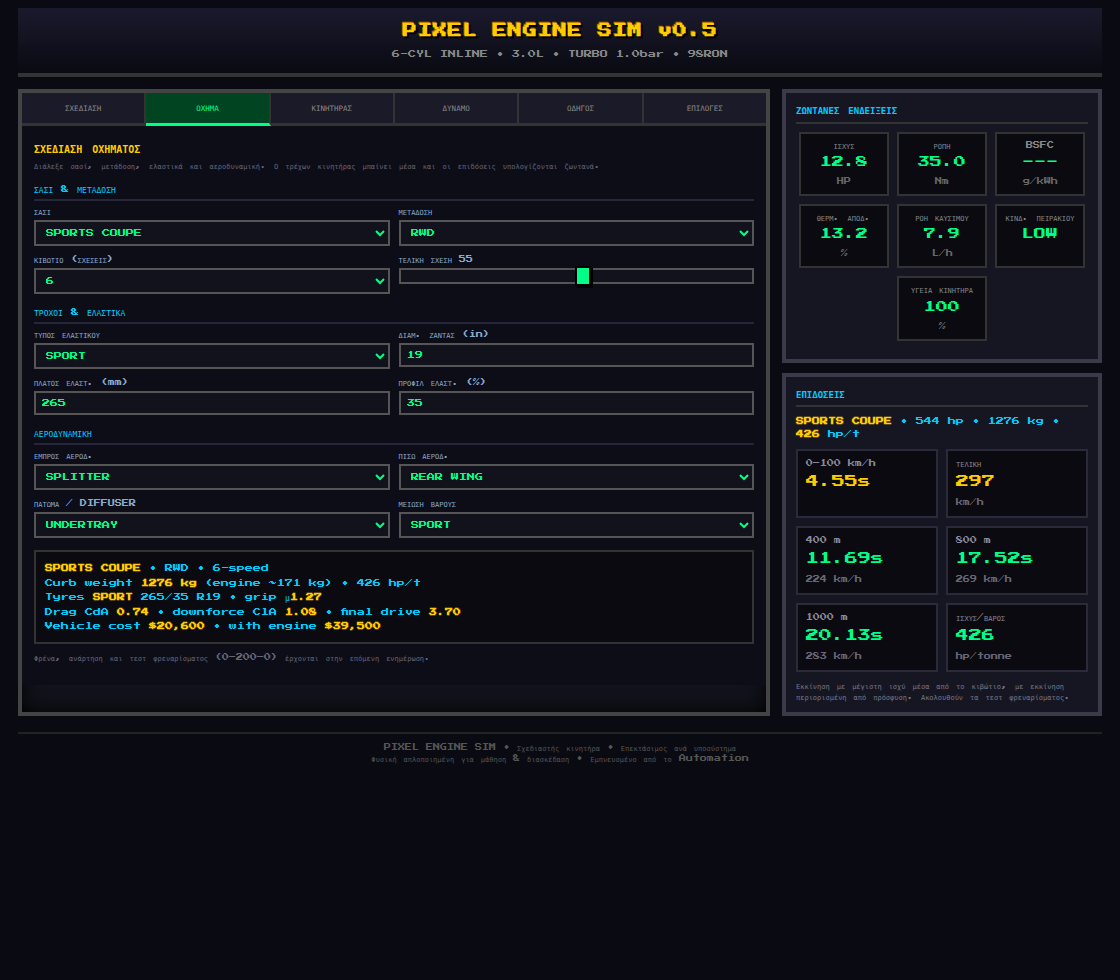
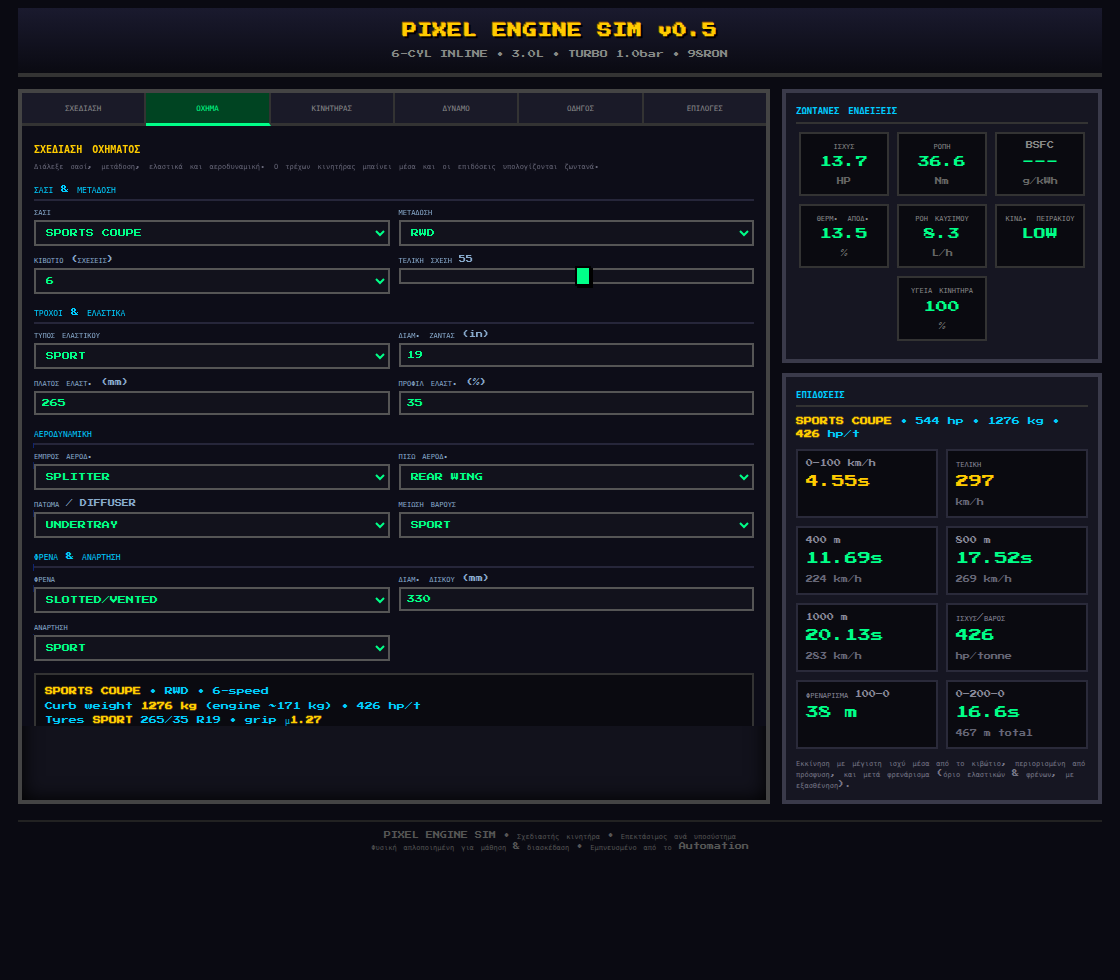
Add vehicle layer (A, part 2): brakes, suspension & braking tests (100-0, 0-200-0) (#24)
- Brakes: type (steel / slotted-vented / big-brake-kit / carbon-ceramic) +
  rotor size, setting the peak commanded deceleration (g) and a heat-energy
  budget before fade. Bigger/better brakes stop shorter and resist fade.
- Suspension: comfort / sport / coilovers / race — a mechanical-grip
  multiplier folded into tyre mu (helps both acceleration and braking).
- Braking sim: deceleration = min(tyre grip [mu.(weight+downforce)], brake
  capacity [fading with absorbed heat]) plus aero drag. Reports 100-0
  stopping distance and the 0-200-0 test (accelerate to 200 km/h then brake
  to a stop -> total time + distance; shows "not reached" for cars that
  can't hit 200). simulateAccel now also records time/distance to 200 km/h.
- Performance panel gains 100-0 BRAKING and 0-200-0 cells; the vehicle
  summary shows brakes (capacity in g) and suspension; costs include both.
- Serialized with the build; GUIDE updated; new UI localised (EN/EL).

Tests (Playwright, zero console errors): brake type shortens 100-0
(steel 51 m -> carbon 24 m), tyre grip & suspension both scale stops, the
0-200-0 assembles correctly, and slow cars report "not reached". Prior
acceleration/state-independence regressions unchanged. README + screenshots
updated.

Claude-Session: https://claude.ai/code/session_01AEJgmuJne9ALT6jCcxozCn

diff --git a/index.html b/index.html
@@ -351,11 +351,13 @@ ignition type set charging and the misfire RPM limit.
 On the <b>VEHICLE</b> tab you drop your engine into a car. Pick a <b>chassis</b> (each has its
 own weight, size and drivetrain), a <b>drivetrain</b> (FWD/RWD/AWD — AWD launches hardest),
 a <b>gearbox</b> (speeds + a short↔tall gearing slider), <b>tyres</b> (compound + width/profile/
-diameter set grip and rolling radius) and <b>aero</b> (front/rear/floor add downforce and drag).
-The engine's mass and torque curve are added in and the <b>Performance</b> panel computes
-<b>0–100 km/h</b>, <b>400/800/1000 m</b> (time + trap speed) and <b>top speed</b> live — a
-traction-limited launch with weight transfer, downforce, drag and rolling resistance. Over-gearing
-hurts both acceleration and top speed; sticky tyres and AWD help you put the power down.
+diameter set grip and rolling radius), <b>aero</b> (front/rear/floor add downforce and drag),
+<b>brakes</b> (type + rotor size set stopping power and fade resistance) and <b>suspension</b>
+(a mechanical-grip multiplier). The engine's mass and torque curve are added in and the
+<b>Performance</b> panel computes <b>0–100 km/h</b>, <b>400/800/1000 m</b> (time + trap speed),
+<b>top speed</b>, <b>100–0 braking</b> and the <b>0–200–0</b> test live — a traction-limited launch
+and a tyre/brake-limited stop with fade, weight transfer, downforce, drag and rolling resistance.
+Over-gearing hurts both acceleration and top speed; sticky tyres, big brakes and AWD help most.
 </div>
 <div class="guide-body" data-gk="tip" style="color:#667;margin-top:12px">Tip: turn WEAR off in OPTIONS to
 experiment freely, then back on for consequences.</div>
@@ -412,8 +414,14 @@ experiment freely, then back on for consequences.</div>
 <div class="field"><label for="vhAeroFl">FLOOR / DIFFUSER</label><select id="vhAeroFl"><option value="none">NONE</option><option value="undertray">UNDERTRAY</option><option value="diffuser">DIFFUSER</option></select></div>
 <div class="field"><label for="vhWeight">WEIGHT REDUCTION</label><select id="vhWeight"><option value="none">NONE</option><option value="street">STREET</option><option value="sport">SPORT</option><option value="race">RACE</option></select></div>
 </div>
+
+<div class="design-section">Brakes &amp; Suspension</div>
+<div class="design-grid">
+<div class="field"><label for="vhBrake">BRAKES</label><select id="vhBrake"><option value="steel">STEEL DISC</option><option value="slotted">SLOTTED/VENTED</option><option value="big">BIG BRAKE KIT</option><option value="carbon">CARBON-CERAMIC</option></select></div>
+<div class="field"><label for="vhRotor">ROTOR SIZE (mm)</label><input type="number" id="vhRotor" min="250" max="420" step="10" value="330"></div>
+<div class="field"><label for="vhSusp">SUSPENSION</label><select id="vhSusp"><option value="comfort">COMFORT</option><option value="sport">SPORT</option><option value="coilover">COILOVERS</option><option value="race">RACE/ADJUST</option></select></div>
+</div>
 <div class="design-summary" id="vehicleSummary"></div>
-<div class="hint" style="margin-top:8px">Brakes, suspension detail and braking tests (0–200–0) arrive in the next update.</div>
 </div>
 </div>
 <div class="side-panel">
@@ -650,9 +658,9 @@ const I18N={
   'Chassis & Drivetrain':{el:'Σασί & Μετάδοση'},'CHASSIS':{el:'ΣΑΣΙ'},'DRIVETRAIN':{el:'ΜΕΤΑΔΟΣΗ'},'GEARBOX (SPEEDS)':{el:'ΚΙΒΩΤΙΟ (ΣΧΕΣΕΙΣ)'},'GEARING':{el:'ΤΕΛΙΚΗ ΣΧΕΣΗ'},
   'Wheels & Tyres':{el:'Τροχοί & Ελαστικά'},'TYRE COMPOUND':{el:'ΤΥΠΟΣ ΕΛΑΣΤΙΚΟΥ'},'WHEEL DIA (in)':{el:'ΔΙΑΜ. ΖΑΝΤΑΣ (in)'},'TYRE WIDTH (mm)':{el:'ΠΛΑΤΟΣ ΕΛΑΣΤ. (mm)'},'TYRE ASPECT (%)':{el:'ΠΡΟΦΙΛ ΕΛΑΣΤ. (%)'},
   'Aerodynamics':{el:'Αεροδυναμική'},'FRONT AERO':{el:'ΕΜΠΡΟΣ ΑΕΡΟΔ.'},'REAR AERO':{el:'ΠΙΣΩ ΑΕΡΟΔ.'},'FLOOR / DIFFUSER':{el:'ΠΑΤΩΜΑ / DIFFUSER'},'WEIGHT REDUCTION':{el:'ΜΕΙΩΣΗ ΒΑΡΟΥΣ'},
-  'Brakes, suspension detail and braking tests (0–200–0) arrive in the next update.':{el:'Φρένα, ανάρτηση και τεστ φρεναρίσματος (0–200–0) έρχονται στην επόμενη ενημέρωση.'},
-  'Performance':{el:'Επιδόσεις'},'0–100 km/h':{el:'0–100 km/h'},'TOP SPEED':{el:'ΤΕΛΙΚΗ'},'POWER/WT':{el:'ΙΣΧΥΣ/ΒΑΡΟΣ'},
-  'Best-power run through the gearbox with a traction-limited launch. Braking tests come next.':{el:'Εκκίνηση με μέγιστη ισχύ μέσα από το κιβώτιο, με εκκίνηση περιορισμένη από πρόσφυση. Ακολουθούν τα τεστ φρεναρίσματος.'},
+  'Brakes & Suspension':{el:'Φρένα & Ανάρτηση'},'BRAKES':{el:'ΦΡΕΝΑ'},'ROTOR SIZE (mm)':{el:'ΔΙΑΜ. ΔΙΣΚΟΥ (mm)'},'SUSPENSION':{el:'ΑΝΑΡΤΗΣΗ'},
+  'Performance':{el:'Επιδόσεις'},'0–100 km/h':{el:'0–100 km/h'},'TOP SPEED':{el:'ΤΕΛΙΚΗ'},'POWER/WT':{el:'ΙΣΧΥΣ/ΒΑΡΟΣ'},'100–0 BRAKING':{el:'ΦΡΕΝΑΡΙΣΜΑ 100–0'},'0–200–0':{el:'0–200–0'},
+  'Best-power run through the gearbox with a traction-limited launch, then braking (tyre- and brake-limited, with fade).':{el:'Εκκίνηση με μέγιστη ισχύ μέσα από το κιβώτιο, περιορισμένη από πρόσφυση, και μετά φρενάρισμα (όριο ελαστικών & φρένων, με εξασθένηση).'},
   // guide h3 + section headers
   'GUIDE • HOW IT WORKS':{el:'ΟΔΗΓΟΣ • ΠΩΣ ΛΕΙΤΟΥΡΓΕΙ'},
   'A quick manual for the sim and its numbers. Design → BUILD & DYNO → drive it.':{el:'Σύντομο εγχειρίδιο για τον προσομοιωτή και τους αριθμούς του. Σχεδίασε → BUILD & DYNO → οδήγησε.'},
@@ -674,7 +682,7 @@ const GUIDE_I18N={
   career:{el:'Διάλεξε έναν <b>ΣΤΟΧΟ</b> στην κορυφή της ΣΧΕΔΙΑΣΗΣ για να κάνεις τη σχεδίαση γρίφο. Κάθε πρόκληση θέτει κριτήρια — ισχύ, οικονομία, εκπομπές, <b>αξιοπιστία</b> ή <b>ισχύ ανά δολάριο</b> — και κάποιες βάζουν όριο <b>προϋπολογισμού</b>. Η κάρτα τσεκάρει κάθε κριτήριο ζωντανά (✓/✗) και δείχνει <b>ΕΠΙΤΥΧΙΑ</b> όταν καλυφθούν όλα· κόστος και αξιοπιστία φαίνονται πάντα. Ο μεγάλος κυβισμός κερδίζει σε αξία· boost και αγωνιστικά μέρη κερδίζουν σε ισχύ αλλά κοστίζουν σε χρήμα και αξιοπιστία.'},
   types:{el:'<b>Βενζίνη 4-χρονη</b> — η ισορροπημένη επιλογή: ανάφλεξη με σπινθήρα, μία εκρηκτική διαδρομή ανά δύο στροφές.<br><b>Πετρέλαιο (CI)</b> — ανάφλεξη με συμπίεση (χωρίς μπουζί, χωρίς πειράκι), πολύ υψηλή συμπίεση, φτωχό χωρίς πεταλούδα. Μεγάλη <b>ροπή</b> στις χαμηλές, χαμηλό όριο στροφών, η καλύτερη <b>απόδοση</b> — αλλά βαρύ, με εκπομπές <b>NOx + αιθάλη (PM)</b> που καθαρίζει σύστημα DPF/SCR.<br><b>2-χρονη</b> — εκρηκτική διαδρομή σε <i>κάθε</i> στροφή (θυρίδες, χωρίς εκκεντροφόρο): υψηλή ειδική ισχύς αλλά λαίμαργη και <b>HC</b>-βρόμικη.<br><b>Wankel (ρότορας)</b> — περιστρεφόμενος ρότορας που ανάβει σε κάθε στροφή: ομαλός σαν τουρμπίνα, τεράστιες στροφές, υψηλή ισχύς ανά λίτρο, αλλά λαίμαργος, <b>HC</b>-βαρύς και σκληρός στα ελάσματα κορυφής.<br>Η αλλαγή τύπου προσαρμόζει τα εύρη συμπίεσης/στροφών/AFR και απενεργοποιεί ό,τι δεν ισχύει.'},
   subsystems:{el:'<b>Κάτω μέρος</b> — τύπος κινητήρα, διάμετρος × διαδρομή × κύλινδροι = κυβισμός· υπερτετράγωνος & υψηλότερο όριο ανεβάζουν την περιοχή ισχύος.<br><b>Διαδρομή αέρα</b> — τούρμπο (γεμίζει με τις στροφές) ή υπερσυμπιεστής (boost από ρελαντί)· το intercooler ψύχει το χάρμανι· εξάτμιση & καταλύτης ανταλλάσσουν ροή με αντίθλιψη/εκπομπές· το νιτρό είναι εμφιαλωμένη ισχύς.<br><b>Εισαγωγή</b> — καρμπιρατέρ → EFI → ITB ορίζουν αναπνοή, ακρίβεια & ρελαντί.<br><b>Χρονισμός βαλβίδων</b> — άγριες εκκεντροφόροι ανεβάζουν την ισχύ ψηλά· το VVT επαναφέρει τις χαμηλές.<br><b>Καύσιμο & σπινθήρας</b> — τύπος καυσίμου, οκτάνια, μπεκ, ανάφλεξη και χρονισμός FIXED/AUTO.<br><b>Ψύξη & ηλεκτρικά</b> — ψυγείο/βεντιλατέρ/ψυγείο λαδιού/θερμοστάτης ορίζουν θερμοκρασίες· δυναμό & ανάφλεξη ορίζουν φόρτιση και όριο μισφάιρ.'},
-  vehicle:{el:'Στην καρτέλα <b>ΟΧΗΜΑ</b> βάζεις τον κινητήρα σου σε αυτοκίνητο. Διάλεξε <b>σασί</b> (κάθε ένα με δικό του βάρος, μέγεθος και μετάδοση), <b>μετάδοση</b> (FWD/RWD/AWD — το AWD ξεκινά καλύτερα), <b>κιβώτιο</b> (σχέσεις + ρυθμιστικό κοντή↔μακριά τελική), <b>ελαστικά</b> (τύπος + πλάτος/προφίλ/διάμετρος ορίζουν πρόσφυση και ακτίνα κύλισης) και <b>αεροδυναμική</b> (εμπρός/πίσω/πάτωμα προσθέτουν κάθετη δύναμη και οπισθέλκουσα). Ο κινητήρας προστίθεται και το ταμπλό <b>Επιδόσεις</b> υπολογίζει <b>0–100 km/h</b>, <b>400/800/1000 m</b> (χρόνος + ταχύτητα) και <b>τελική</b> ζωντανά — εκκίνηση περιορισμένη από πρόσφυση με μεταφορά βάρους, κάθετη δύναμη, οπισθέλκουσα και αντίσταση κύλισης. Η υπερβολικά μακριά τελική βλάπτει και την επιτάχυνση και την τελική· κολλώδη ελαστικά και AWD βοηθούν να περάσει η ισχύς στον δρόμο.'},
+  vehicle:{el:'Στην καρτέλα <b>ΟΧΗΜΑ</b> βάζεις τον κινητήρα σου σε αυτοκίνητο. Διάλεξε <b>σασί</b> (κάθε ένα με δικό του βάρος, μέγεθος και μετάδοση), <b>μετάδοση</b> (FWD/RWD/AWD — το AWD ξεκινά καλύτερα), <b>κιβώτιο</b> (σχέσεις + ρυθμιστικό κοντή↔μακριά τελική), <b>ελαστικά</b> (τύπος + πλάτος/προφίλ/διάμετρος), <b>αεροδυναμική</b> (εμπρός/πίσω/πάτωμα = κάθετη δύναμη & οπισθέλκουσα), <b>φρένα</b> (τύπος + διάμετρος δίσκου ορίζουν φρενάρισμα και αντοχή στην εξασθένηση) και <b>ανάρτηση</b> (πολλαπλασιαστής μηχανικής πρόσφυσης). Ο κινητήρας προστίθεται και το ταμπλό <b>Επιδόσεις</b> υπολογίζει <b>0–100 km/h</b>, <b>400/800/1000 m</b>, <b>τελική</b>, <b>φρενάρισμα 100–0</b> και το τεστ <b>0–200–0</b> ζωντανά — εκκίνηση περιορισμένη από πρόσφυση και φρενάρισμα με όριο ελαστικών/φρένων και εξασθένηση. Η υπερβολικά μακριά τελική βλάπτει επιτάχυνση και τελική· κολλώδη ελαστικά, μεγάλα φρένα και AWD βοηθούν πιο πολύ.'},
   tip:{el:'Συμβουλή: κλείσε τη ΦΘΟΡΑ στις ΕΠΙΛΟΓΕΣ για ελεύθερο πειραματισμό, μετά ξανάνοιξέ την για συνέπειες.'}
 };
 const CHALLENGE_I18N={
@@ -827,6 +835,21 @@ const AERO_FLOOR={none:{cl:0,cd:0},undertray:{cl:0.35,cd:0.006},diffuser:{cl:0.8
 const AERO_COST={none:0,splitter:600,wing:1800,lip:400,undertray:900,diffuser:2200};
 // Weight reduction stages: kg removed and cost.
 const WEIGHT_RED={none:{kg:0,cost:0},street:{kg:45,cost:1200},sport:{kg:95,cost:3500},race:{kg:170,cost:9000}};
+// Brakes: cap = peak deceleration the brakes can command (g, before fade), fade = resistance
+// to heat build-up (1 = none). A bigger rotor adds both capacity and thermal mass.
+const BRAKE_TYPE={
+  steel:  {label:'STEEL DISC',     cap:1.05,fade:0.45,cost:600},
+  slotted:{label:'SLOTTED/VENTED', cap:1.35,fade:0.70,cost:1400},
+  big:    {label:'BIG BRAKE KIT',  cap:1.65,fade:0.88,cost:3200},
+  carbon: {label:'CARBON-CERAMIC', cap:1.95,fade:1.00,cost:7000}
+};
+// Suspension: a mechanical-grip multiplier (better damping puts more of the tyre down).
+const SUSPENSION={
+  comfort: {label:'COMFORT',    grip:0.95,cost:400},
+  sport:   {label:'SPORT',      grip:1.00,cost:1500},
+  coilover:{label:'COILOVERS',  grip:1.05,cost:3200},
+  race:    {label:'RACE/ADJUST',grip:1.10,cost:6500}
+};
 // Drivetrain: driveline efficiency (crank→wheels) and the driven-axle description.
 const DRIVE_EFF={fwd:0.92,rwd:0.90,awd:0.86};
 const AIR_RHO=1.20;   // air density kg/m³
@@ -834,7 +857,8 @@ const G=9.81;
 const DEFAULT_VEHICLE={
   chassis:'coupe',drive:'rwd',gears:6,gearing:55,
   tireType:'sport',tireWidth:235,tireAspect:40,wheelDia:18,
-  aeroFront:'splitter',aeroRear:'lip',aeroFloor:'none',weightRed:'street'
+  aeroFront:'splitter',aeroRear:'lip',aeroFloor:'none',weightRed:'street',
+  brakeType:'slotted',rotor:330,suspension:'sport'
 };
 let vehicle=Object.assign({},DEFAULT_VEHICLE);
 let perf=null;   // last computed performance result
@@ -1607,7 +1631,8 @@ function readVehicleFromForm(){
     gears:clamp(Math.round(+g('vhGears').value||6),4,8),gearing:clamp(+g('vhGearing').value||55,0,100),
     tireType:g('vhTire').value,tireWidth:clamp(Math.round(+g('vhTireW').value||225),135,355),
     tireAspect:clamp(Math.round(+g('vhTireA').value||40),25,70),wheelDia:clamp(Math.round(+g('vhWheel').value||18),13,22),
-    aeroFront:g('vhAeroF').value,aeroRear:g('vhAeroR').value,aeroFloor:g('vhAeroFl').value,weightRed:g('vhWeight').value
+    aeroFront:g('vhAeroF').value,aeroRear:g('vhAeroR').value,aeroFloor:g('vhAeroFl').value,weightRed:g('vhWeight').value,
+    brakeType:g('vhBrake').value,rotor:clamp(Math.round(+g('vhRotor').value||330),250,420),suspension:g('vhSusp').value
   };
 }
 function applyVehicleToForm(v){
@@ -1616,10 +1641,13 @@ function applyVehicleToForm(v){
   g('vhGears').value=v.gears||6;g('vhGearing').value=v.gearing!=null?v.gearing:55;
   g('vhTire').value=v.tireType||'sport';g('vhTireW').value=v.tireWidth||235;g('vhTireA').value=v.tireAspect||40;g('vhWheel').value=v.wheelDia||18;
   g('vhAeroF').value=v.aeroFront||'none';g('vhAeroR').value=v.aeroRear||'none';g('vhAeroFl').value=v.aeroFloor||'none';g('vhWeight').value=v.weightRed||'none';
+  g('vhBrake').value=v.brakeType||'slotted';g('vhRotor').value=v.rotor||330;g('vhSusp').value=v.suspension||'sport';
 }
 function computeVehicleCost(ch,tt,wr){
   let c=ch.cost+tt.cost+wr.cost;
   c+=(AERO_COST[vehicle.aeroFront]||0)+(AERO_COST[vehicle.aeroRear]||0)+(AERO_COST[vehicle.aeroFloor]||0);
+  c+=(BRAKE_TYPE[vehicle.brakeType]||BRAKE_TYPE.slotted).cost+(SUSPENSION[vehicle.suspension]||SUSPENSION.sport).cost;
+  c+=Math.max(0,vehicle.rotor-320)*6;
   c+={fwd:0,rwd:800,awd:2500}[vehicle.drive]||0;
   c+=Math.max(0,vehicle.gears-5)*400;
   c+=Math.max(0,vehicle.wheelDia-16)*120+Math.max(0,vehicle.tireWidth-205)*4;
@@ -1632,8 +1660,13 @@ function buildVehicle(){
   const sidewall=vehicle.tireWidth*(vehicle.tireAspect/100);           // mm
   vehicle.rTire=((vehicle.wheelDia*25.4)/2+sidewall)/1000;            // rolling radius (m)
   const widthBonus=clamp((vehicle.tireWidth-205)/205,-0.15,0.30);
-  vehicle.mu=tt.mu*ch.grip*(1+0.25*widthBonus);
+  const susp=SUSPENSION[vehicle.suspension]||SUSPENSION.sport;
+  vehicle.mu=tt.mu*ch.grip*susp.grip*(1+0.25*widthBonus);
   vehicle.crr=tt.crr;
+  // Brakes: peak commanded deceleration (m/s²) and a heat-energy budget before fade sets in.
+  const bt=BRAKE_TYPE[vehicle.brakeType]||BRAKE_TYPE.slotted, rotorF=0.85+clamp((vehicle.rotor-320)/100,0,1)*0.30;
+  vehicle.brakeDecelCap=bt.cap*rotorF*G;
+  vehicle.brakeFadeE=1.1e6*bt.fade*rotorF;   // joules absorbed before capacity starts fading
   vehicle.engineMass=engineMass();
   vehicle.mass=Math.max(380,ch.mass+vehicle.engineMass-wr.kg);
   vehicle.wb=ch.wb;vehicle.cg=ch.cg;vehicle.fWt=ch.fWt;vehicle.area=ch.area;
@@ -1646,6 +1679,31 @@ function buildVehicle(){
   vehicle.cost=computeVehicleCost(ch,tt,wr);
   vehicle.powerToWeight=engine.score?engine.score.peakHP/(vehicle.mass/1000):0;   // hp per tonne
   perf=simulateAccel();
+  if(perf){
+    perf.brake100=simulateBraking(100/3.6);        // 100→0 stopping distance
+    perf.brake200=simulateBraking(200/3.6);        // 200→0 (used by the 0-200-0 test)
+    if(perf.t200!=null){                            // 0-200-0: accelerate to 200 then brake to 0
+      perf.zt=perf.t200+perf.brake200.time;
+      perf.zd=perf.x200+perf.brake200.dist;
+    }else{perf.zt=null;perf.zd=null;}
+  }
+}
+// Braking run from v0 (m/s) to a stop: decel is the lesser of tyre grip (μ·(weight+downforce))
+// and what the brakes can command (capacity, fading as they absorb heat), with aero drag also
+// helping to slow the car. Returns stopping distance (m) and time (s).
+function simulateBraking(v0){
+  const m=vehicle.mass,dt=0.005;let v=v0,x=0,t=0,heat=0;
+  while(v>0.15&&t<25){
+    const down=0.5*AIR_RHO*vehicle.clA*v*v;
+    const gripDecel=vehicle.mu*(m*G+down)/m;                       // tyre-limited
+    const fade=1-clamp(heat/vehicle.brakeFadeE,0,1)*0.35;          // capacity fades with absorbed heat
+    const brakeDecel=vehicle.brakeDecelCap*fade;                   // brake-limited
+    const mech=Math.min(gripDecel,brakeDecel);                    // mechanical (tyre/brake) decel
+    const aero=(0.5*AIR_RHO*vehicle.cdA*v*v)/m;                    // drag also decelerates
+    heat+=m*mech*v*dt;                                            // work turned into brake heat
+    v=Math.max(0,v-(mech+aero)*dt);x+=v*dt;t+=dt;
+  }
+  return {dist:x,time:t};
 }
 // A best-power torque curve (Nm vs rpm) so performance reflects the engine's DESIGN potential,
 // independent of the live driving state. Every live variable that feeds torque — mixture,
@@ -1670,8 +1728,8 @@ function simulateAccel(){
   const idle=engine.idleRpmEff,rl=engine.redline,TWO_PI=Math.PI*2,dt=0.005;
   const launchRpm=clamp(rl*0.55,idle+400,rl*0.72);
   let v=0,x=0,t=0,gear=0,a=0,shiftT=0;
-  const M={t100:null,q400:null,q800:null,q1000:null},V100=100/3.6;
-  for(let step=0;step<40000&&x<1000&&t<120;step++){
+  const M={t100:null,q400:null,q800:null,q1000:null,v200:null},V100=100/3.6,V200=200/3.6;
+  for(let step=0;step<48000&&t<150;step++){
     let totalRatio=ratios[gear]*fd,rpm=v*totalRatio/r*60/TWO_PI;
     if(shiftT<=0&&rpm>=rl&&gear<ratios.length-1){gear++;shiftT=0.12;totalRatio=ratios[gear]*fd;rpm=v*totalRatio/r*60/TWO_PI;}
     const engineRpm=clamp(v<3?Math.max(rpm,launchRpm):rpm,idle,rl);
@@ -1689,6 +1747,8 @@ function simulateAccel(){
     if(!M.q400&&x>=400)M.q400={t,v};
     if(!M.q800&&x>=800)M.q800={t,v};
     if(!M.q1000&&x>=1000)M.q1000={t,v};
+    if(!M.v200&&v>=V200)M.v200={t,x};
+    if(x>=1000&&(M.v200||a<0.03))break;   // have the marks and either hit 200 or can't
   }
   // Top speed: fastest v where top-gear drive force still beats drag+roll, capped by the limiter.
   const topGear=ratios[ratios.length-1]*fd;let vTop=0;
@@ -1697,7 +1757,8 @@ function simulateAccel(){
     if(F>drag+roll)vTop=vv;else break;}
   const vRedline=rl*TWO_PI*r/60/topGear;
   const topSpeed=Math.min(vTop||vRedline,vRedline)*3.6;
-  return {t100:M.t100,q400:M.q400,q800:M.q800,q1000:M.q1000,topSpeed,mass:m,ptw:vehicle.powerToWeight};
+  return {t100:M.t100,q400:M.q400,q800:M.q800,q1000:M.q1000,topSpeed,mass:m,ptw:vehicle.powerToWeight,
+    t200:M.v200?M.v200.t:null,x200:M.v200?M.v200.x:null};
 }
 function fmtT(t){return (t==null)?'—':t.toFixed(2)+'s';}
 function fmtTrap(mk){return mk?Math.round(mk.v*3.6)+' km/h':'';}
@@ -1708,6 +1769,7 @@ function updateVehicleSummary(){
   el.innerHTML='<b>'+vehicle.chLabel+'</b> • '+dl+' • '+vehicle.gears+'-speed'+
     '<br>Curb weight <b>'+Math.round(vehicle.mass)+' kg</b> (engine ~'+vehicle.engineMass+' kg) • '+vehicle.powerToWeight.toFixed(0)+' hp/t'+
     '<br>Tyres <b>'+(TIRE_TYPE[vehicle.tireType]||TIRE_TYPE.sport).label+'</b> '+vehicle.tireWidth+'/'+vehicle.tireAspect+' R'+vehicle.wheelDia+' • grip μ<b>'+vehicle.mu.toFixed(2)+'</b>'+
+    '<br>Brakes <b>'+(BRAKE_TYPE[vehicle.brakeType]||BRAKE_TYPE.slotted).label+'</b> '+vehicle.rotor+'mm ('+(vehicle.brakeDecelCap/G).toFixed(2)+'g) • Susp <b>'+(SUSPENSION[vehicle.suspension]||SUSPENSION.sport).label+'</b>'+
     '<br>Drag CdA <b>'+vehicle.cdA.toFixed(2)+'</b> • downforce ClA <b>'+vehicle.clA.toFixed(2)+'</b> • final drive <b>'+vehicle.finalDrive.toFixed(2)+'</b>'+
     '<br>Vehicle cost <b>'+fmtCost(vehicle.cost)+'</b> • with engine <b>'+fmtCost(vehicle.cost+(engine.cost||0))+'</b>';
   renderPerformance();
@@ -1719,14 +1781,19 @@ function renderPerformance(){
   if(!p){head.textContent='—';grid.innerHTML='';if(note)note.textContent='';return;}
   head.innerHTML='<b>'+vehicle.chLabel+'</b> • '+(engine.score?engine.score.peakHP:0)+' hp • '+Math.round(vehicle.mass)+' kg • <b>'+p.ptw.toFixed(0)+'</b> hp/t';
   const cell=(k,v,u,cls)=>'<div class="perf-cell '+(cls||'')+'"><span class="k">'+k+'</span><div class="v">'+v+'</div><span class="u">'+(u||'')+'</span></div>';
+  const b100=p.brake100?Math.round(p.brake100.dist)+' m':'—';
+  const zz=(p.zt!=null)?p.zt.toFixed(1)+'s':'—';
+  const zzU=(p.zd!=null)?Math.round(p.zd)+' m total':'not reached';
   grid.innerHTML=
     cell(tr('0–100 km/h'),fmtT(p.t100),'',' hero')+
     cell(tr('TOP SPEED'),Math.round(p.topSpeed),'km/h','hero')+
     cell('400 m',fmtT(p.q400&&p.q400.t),fmtTrap(p.q400))+
     cell('800 m',fmtT(p.q800&&p.q800.t),fmtTrap(p.q800))+
     cell('1000 m',fmtT(p.q1000&&p.q1000.t),fmtTrap(p.q1000))+
-    cell(tr('POWER/WT'),p.ptw.toFixed(0),'hp/tonne');
-  if(note)note.textContent=tr('Best-power run through the gearbox with a traction-limited launch. Braking tests come next.');
+    cell(tr('POWER/WT'),p.ptw.toFixed(0),'hp/tonne')+
+    cell(tr('100–0 BRAKING'),b100,'')+
+    cell(tr('0–200–0'),zz,zzU);
+  if(note)note.textContent=tr('Best-power run through the gearbox with a traction-limited launch, then braking (tyre- and brake-limited, with fade).');
 }
 
 // ---- Dynamic thermal model (temps drift over time under load) ----
@@ -2293,7 +2360,7 @@ function bindControls(){
   document.getElementById('tabGuide').addEventListener('click',()=>setTab('guide'));
   document.getElementById('tabOptions').addEventListener('click',()=>setTab('options'));
   // Vehicle design: recompute performance live on any change; chassis sets a default drivetrain.
-  ['vhChassis','vhDrive','vhGears','vhGearing','vhTire','vhTireW','vhTireA','vhWheel','vhAeroF','vhAeroR','vhAeroFl','vhWeight'].forEach(id=>{
+  ['vhChassis','vhDrive','vhGears','vhGearing','vhTire','vhTireW','vhTireA','vhWheel','vhAeroF','vhAeroR','vhAeroFl','vhWeight','vhBrake','vhRotor','vhSusp'].forEach(id=>{
     const el=document.getElementById(id);if(!el)return;
     el.addEventListener('input',()=>{
       if(id==='vhChassis'){const ch=CHASSIS[el.value];if(ch)document.getElementById('vhDrive').value=ch.drive;}

diff --git a/README.md b/README.md
@@ -77,11 +77,12 @@ saps power; a large radiator, electric fan and oil cooler keep it cool.
 - **Vehicle & performance (new)** — pick a **chassis** (13 archetypes, each with its own weight,
   size, drivetrain and grip), a **drivetrain** (FWD/RWD/AWD), a **gearbox** (4–8 speeds + a
   short↔tall gearing slider), **tyres** (compound + width/profile/wheel diameter → grip &
-  rolling radius) and **aero** (front/rear/floor downforce vs drag), plus **weight reduction**.
+  rolling radius), **aero** (front/rear/floor downforce vs drag), **brakes** (type + rotor size →
+  stopping power & fade resistance), **suspension** (a grip multiplier) and **weight reduction**.
   Your current engine is dropped in and the sim computes **0–100 km/h**, **400 / 800 / 1000 m**
-  (time + trap speed) and **top speed** live — a traction-limited launch with weight transfer,
-  downforce, aero drag and rolling resistance. Vehicle cost and power-to-weight are shown too.
-  *(Brakes, suspension detail and braking tests are coming in the next update.)*
+  (time + trap speed), **top speed**, **100–0 braking** and the **0–200–0** test live — a
+  traction-limited launch and a tyre/brake-limited stop (with fade), weight transfer, downforce,
+  aero drag and rolling resistance. Vehicle cost and power-to-weight are shown too.
 - **Engine-view schematic** — a test-bench diagram (air intake, fuel system, engine,
   exhaust/analyser, dynamometer, electrical) with live values on every subsystem, instead of
   a too-fast animation. The **exhaust/analyser** box reads live **emissions** (a CLEAN/OK/DIRTY
@@ -249,7 +250,10 @@ Curve** tab remains a wide-open-throttle steady-state sweep for reading the full
   limiter. Top speed is where top-gear thrust equals drag (or the limiter, whichever comes
   first), so over-gearing lowers it. AWD puts all four tyres' grip down and launches hardest;
   FWD loses front load under acceleration. Engine mass is estimated from the spec and added to
-  the chassis for curb weight and power-to-weight.
+  the chassis for curb weight and power-to-weight. Braking is the mirror image: deceleration is
+  the lesser of tyre grip (μ·(weight + downforce)) and what the brakes can command (capacity by
+  type/rotor size, fading as they absorb heat), with aero drag also slowing the car — so big
+  brakes and sticky tyres shorten 100–0, while undersized steel brakes fade in the 0–200–0.
 - Strategy: each part carries a rough build cost, summed into a total (so budget challenges
   and power-per-dollar have meaning); a design reliability index estimates durability from
   knock margin, boost/specific-output stress, high-strung choices (anti-lag, nitrous, sky-high
@@ -297,8 +301,8 @@ philosophy).
 5. ~~**(B) New engine types**~~ ✅ **done** — diesel (compression ignition), rotary/Wankel and
    2-stroke, each with its own firing frequency, fuelling, efficiency, emissions and sound.
 6. **(A) Vehicle / drivetrain layer** — 🚧 *in progress.* **Done:** chassis, drivetrain
-   (FWD/RWD/AWD), gearbox, tyres, aero and weight → **acceleration (0–100 km/h, 400/800/1000 m)
-   and top speed**. **Next:** brakes, suspension detail and **braking tests (0–200–0)**, then a
+   (FWD/RWD/AWD), gearbox, tyres, aero, weight, **brakes and suspension** → **acceleration
+   (0–100 km/h, 400/800/1000 m), top speed, 100–0 braking and the 0–200–0 test**. **Next:** a
    test track.
 
 Deferred: 2D fuel/ignition map editor (parked for later); V/boxer bank visuals (cosmetic);
@@ -333,6 +337,7 @@ native Android build (parked).
 - [x] Strategy layer: parts cost/budget, reliability index, power-per-dollar & objective challenges
 - [x] New engine types: diesel (CI), 2-stroke and rotary/Wankel, each with distinct physics & emissions
 - [x] Localisation (English / Greek) with persistence, and a responsive portrait layout
+- [x] Vehicle layer: chassis/drivetrain/gearbox/tyres/aero/weight/brakes/suspension → 0–100, 400/800/1000 m, top speed, 100–0 & 0–200–0
 - [x] Calibration pass for realistic power figures & curve shape (ongoing refinement)
 - [ ] Native Android build (wrap the PWA with Capacitor or a Trusted Web Activity)
 
